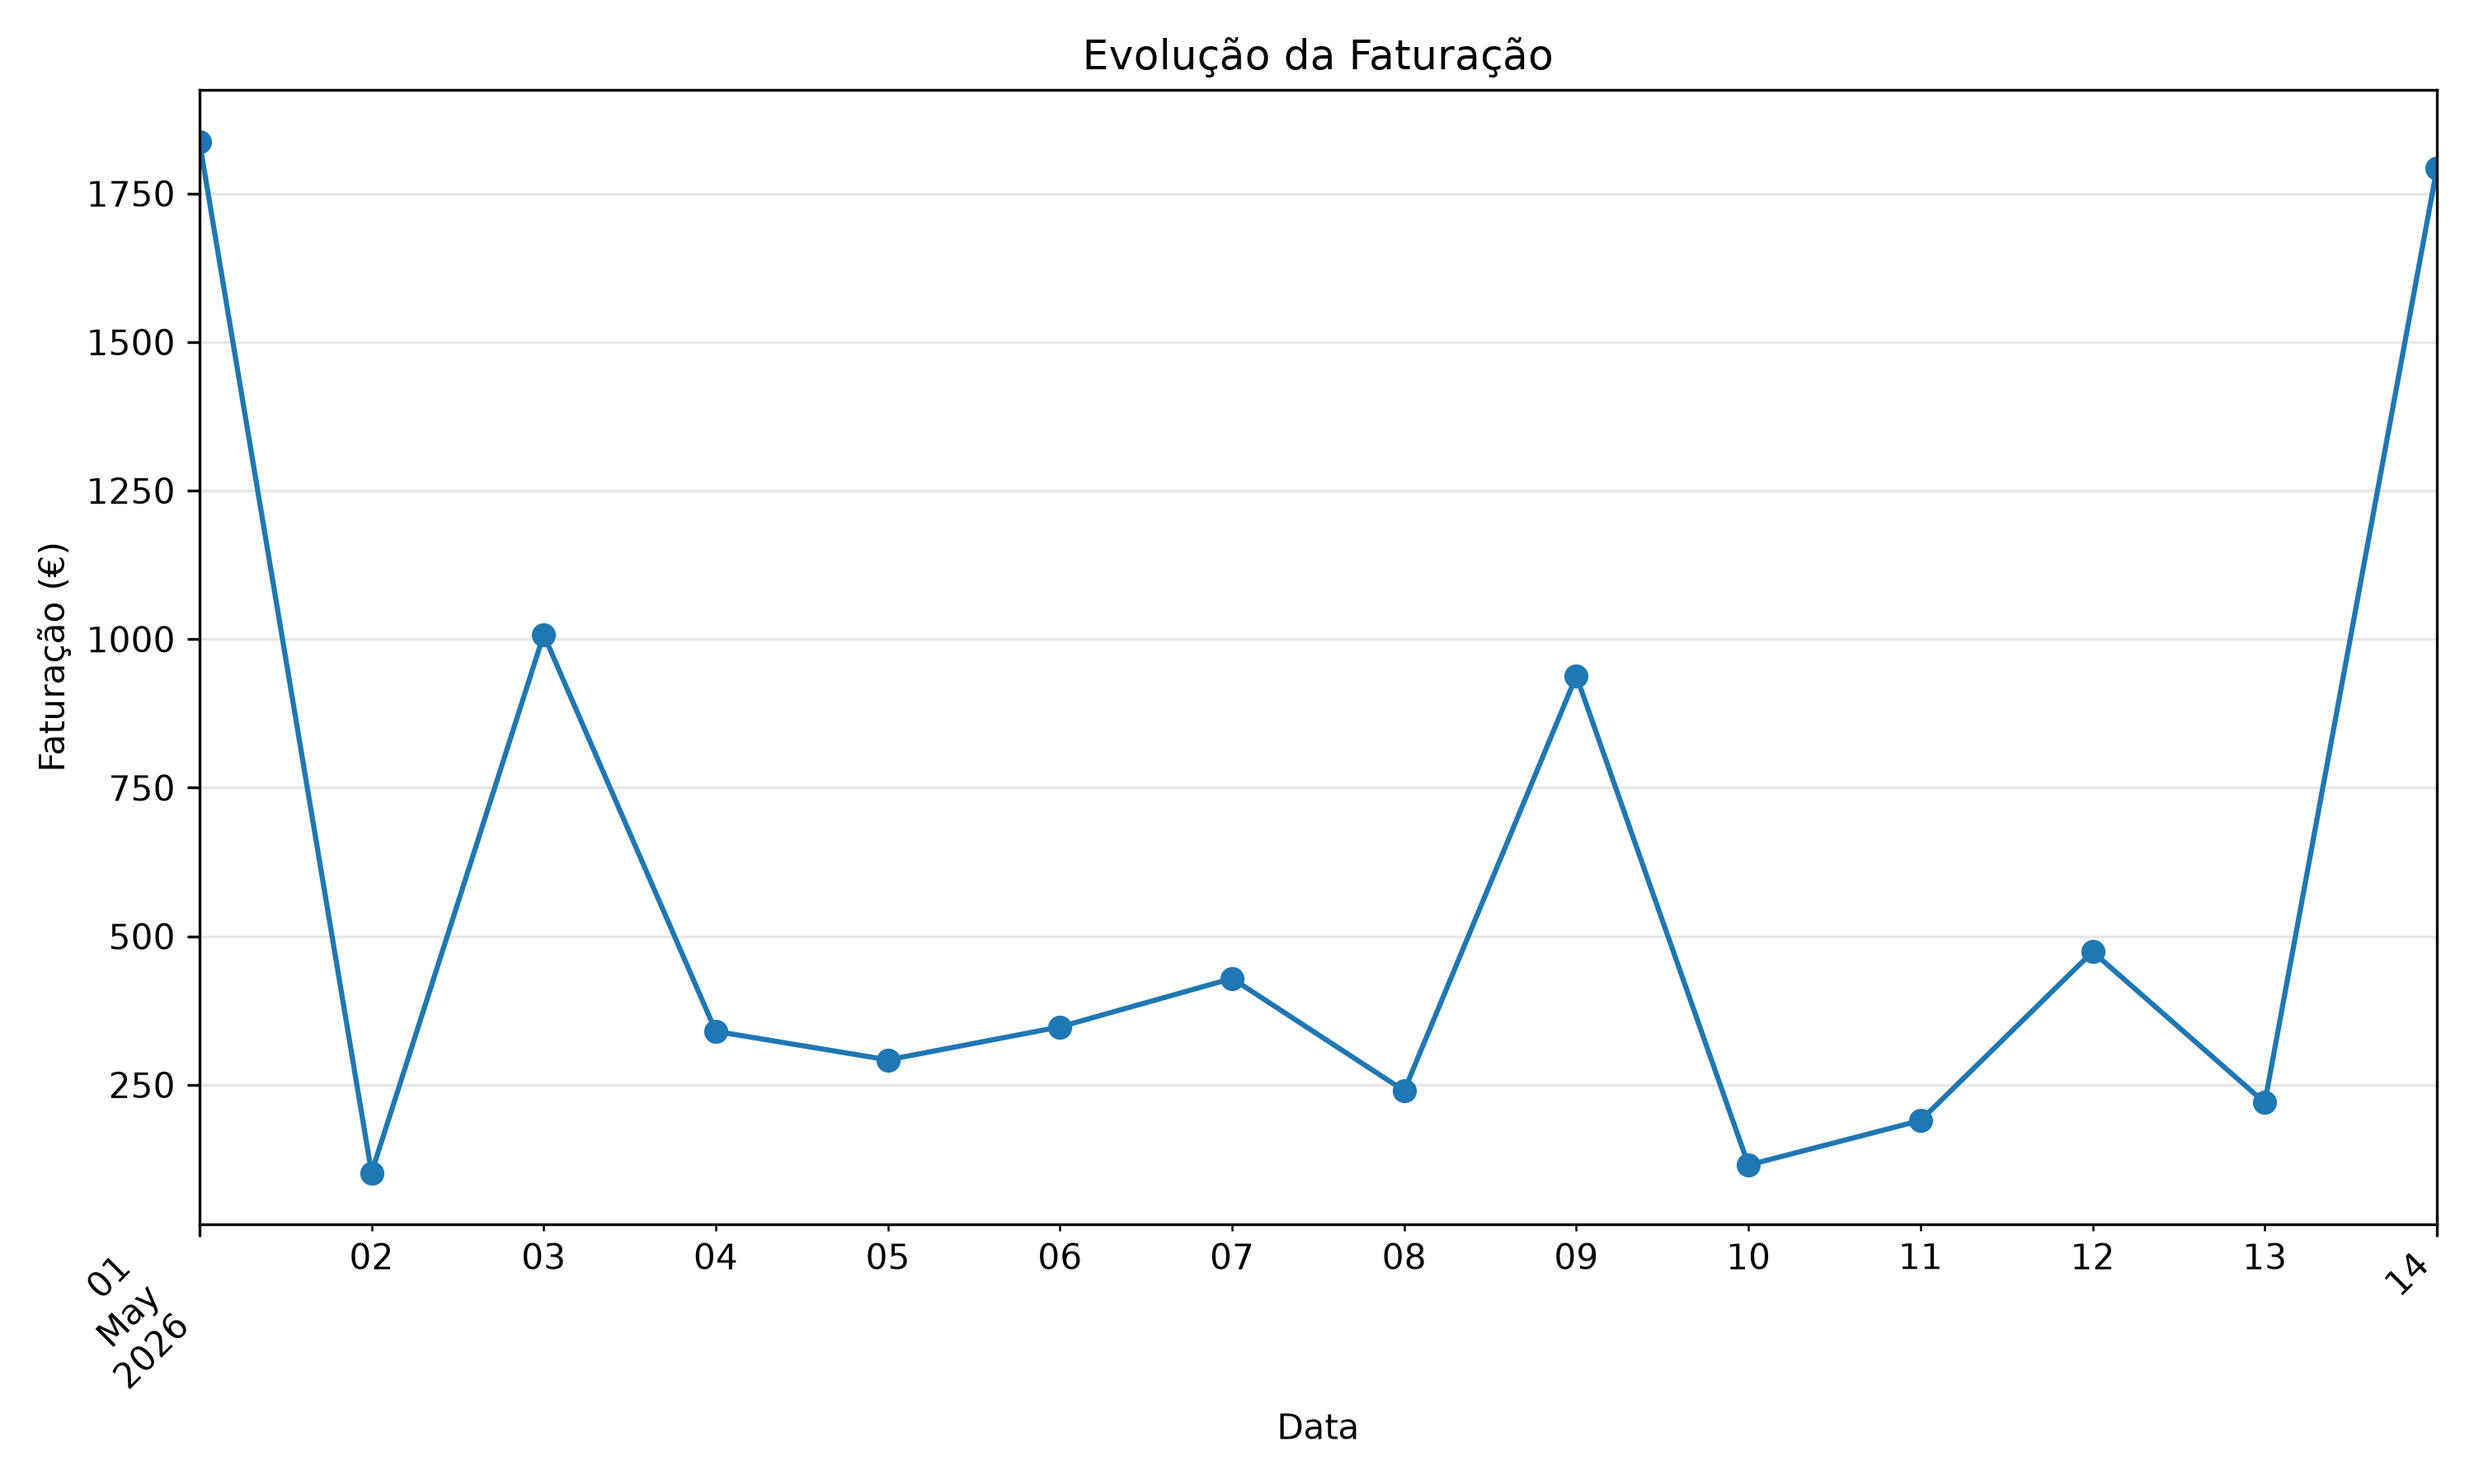
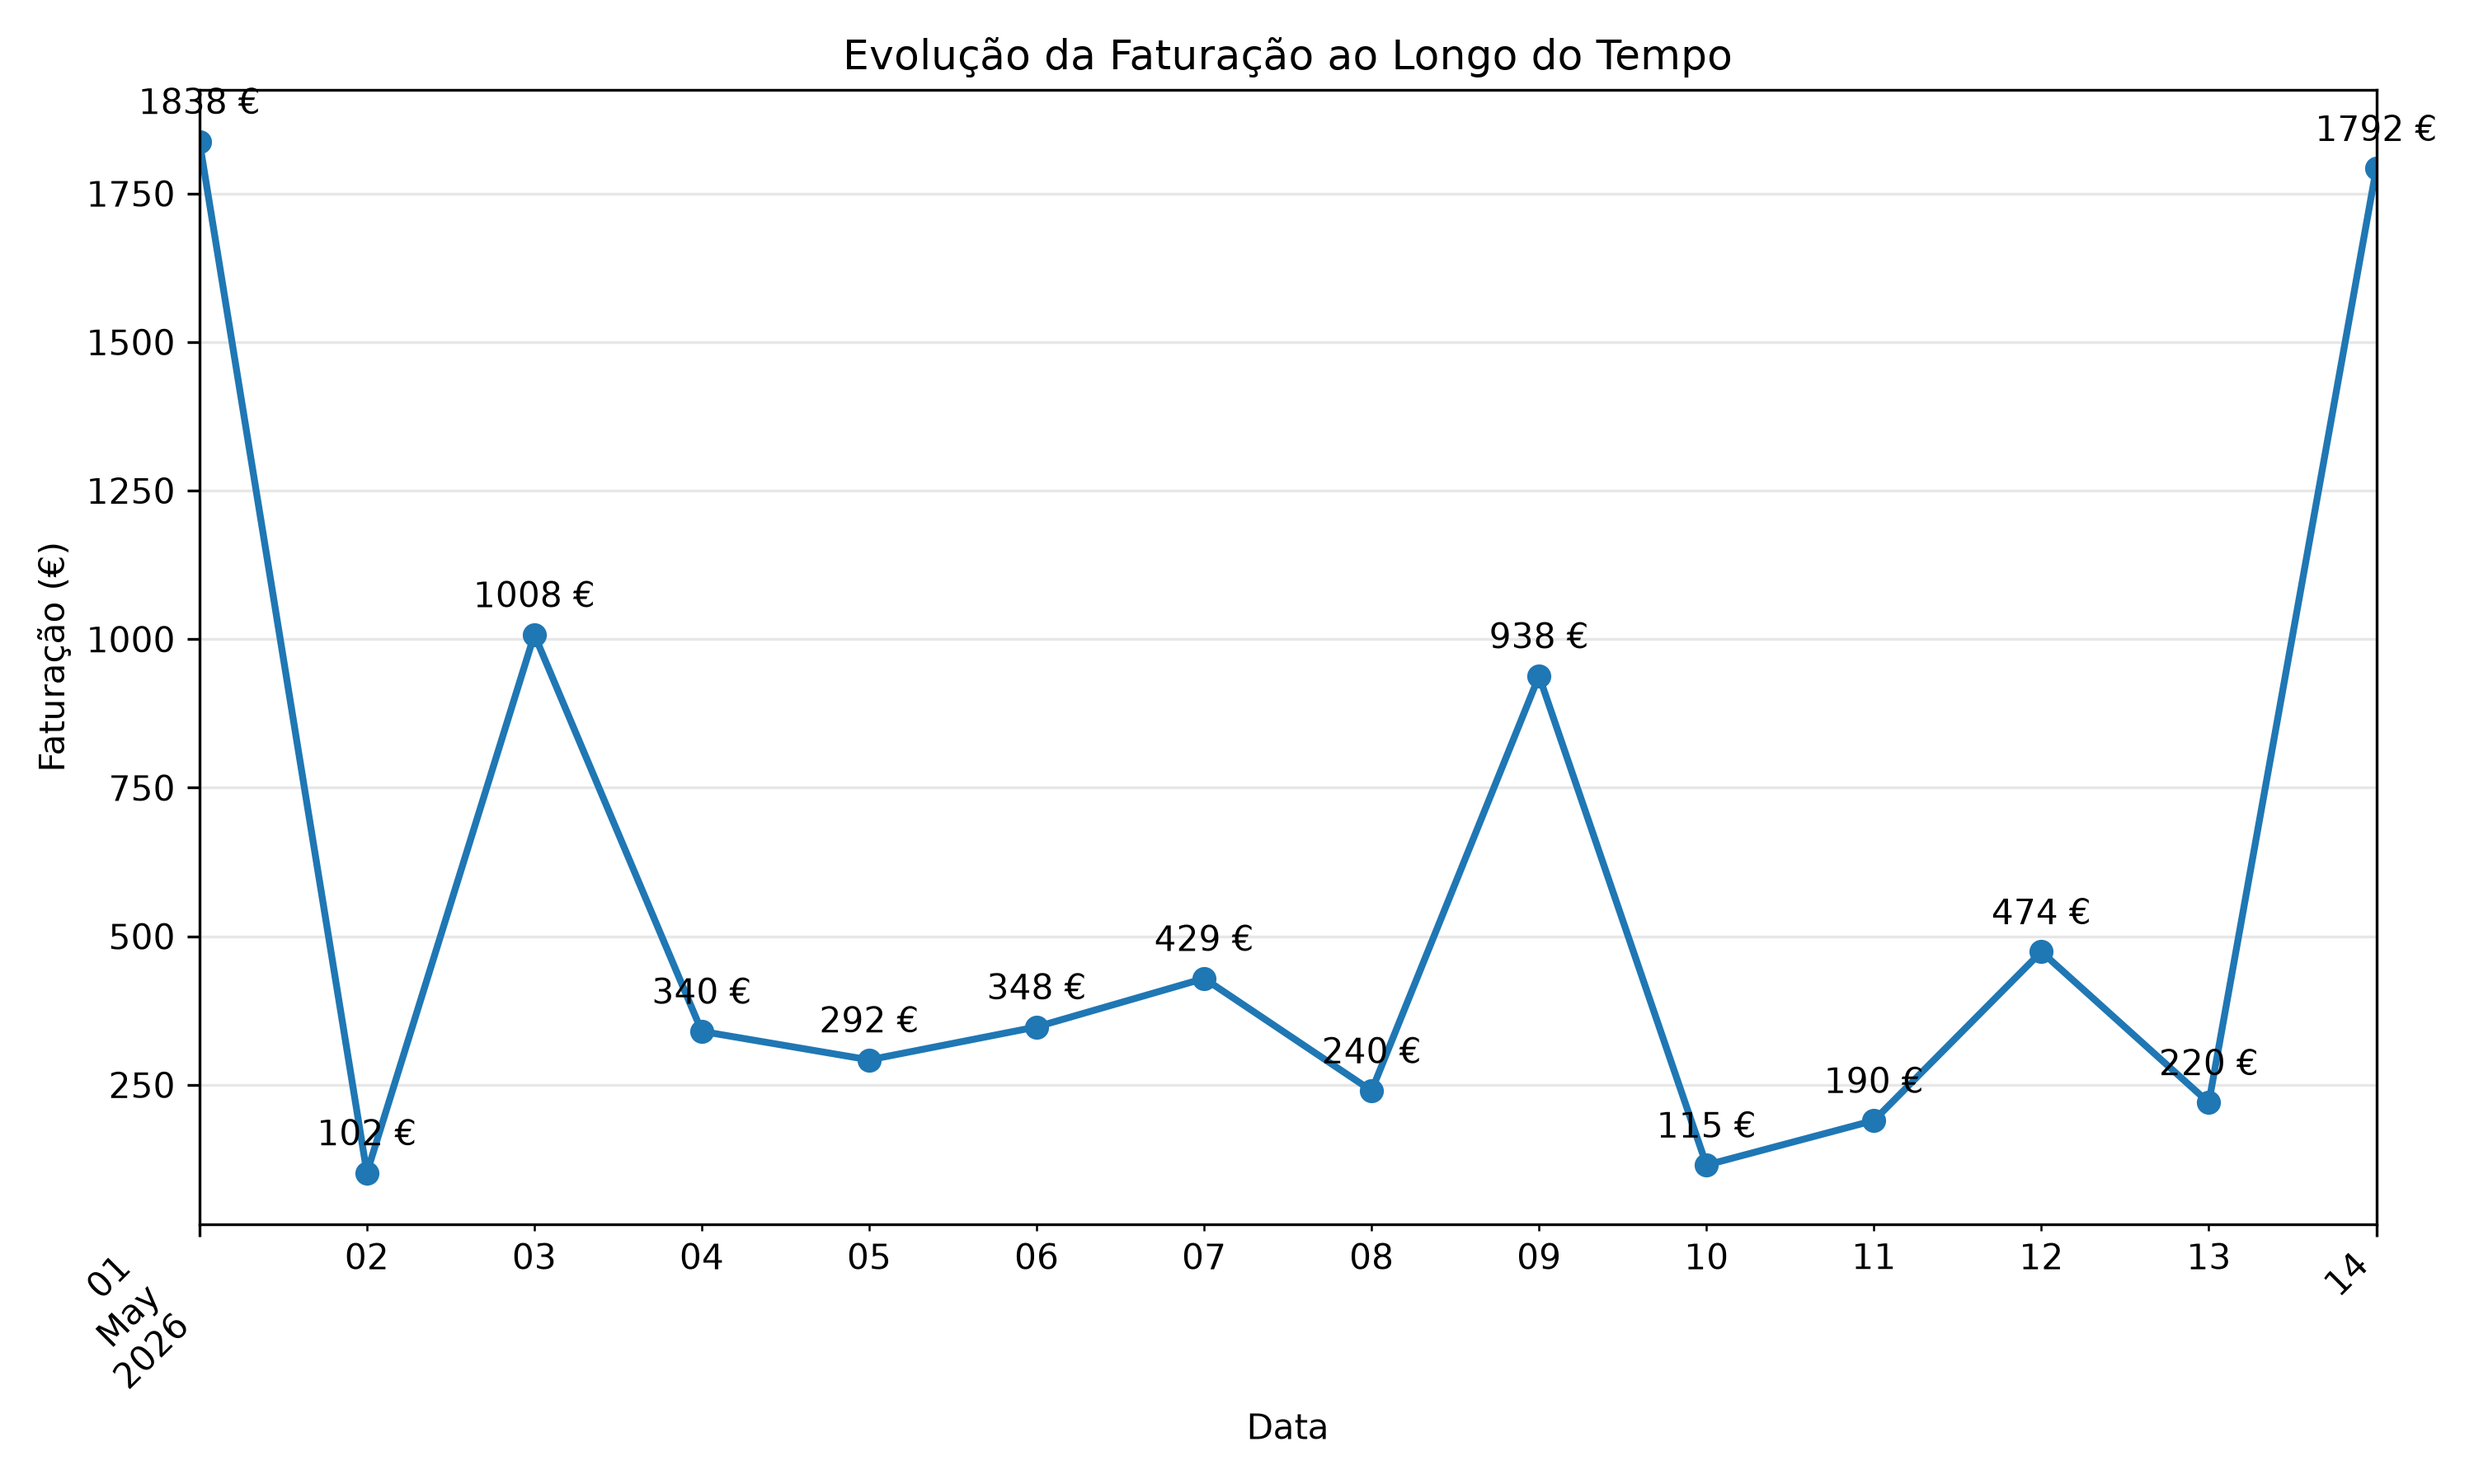
feat: improve sales visualizations

diff --git a/src/analisador_vendas.py b/src/analisador_vendas.py
@@ -105,13 +105,20 @@ class AnalisadorVendas:
 
         plt.figure(figsize=(10, 6))
 
-        top_5.plot(kind="bar")
+        ax = top_5.sort_values().plot(kind="barh")
 
         plt.title("Top 5 Produtos Mais Vendidos")
-        plt.xlabel("Produto")
-        plt.ylabel("Unidades Vendidas")
+        plt.xlabel("Unidades Vendidas")
+        plt.ylabel("Produto")
 
-        plt.xticks(rotation=45, ha="right")
+        for i, valor in enumerate(top_5.sort_values()):
+            ax.text(
+                valor + 1,
+                i,
+                str(valor),
+                va="center"
+            )
+
         plt.tight_layout()
 
         plt.savefig(
@@ -134,15 +141,23 @@ class AnalisadorVendas:
         )
 
     def grafico_top_5_faturacao(self):
-        top_5 = self.top_5_produtos_por_faturacao()
+        top_5 = self.top_5_produtos_por_faturacao().sort_values()
 
         plt.figure(figsize=(10, 6))
 
-        top_5.sort_values().plot(kind="barh")
+        ax = top_5.plot(kind="barh")
 
         plt.title("Top 5 Produtos por Faturação")
         plt.xlabel("Faturação (€)")
         plt.ylabel("Produto")
+
+        for i, valor in enumerate(top_5):
+            ax.text(
+                valor + 50,
+                i,
+                f"{valor:.2f} €",
+                va="center"
+            )
 
         plt.tight_layout()
 
@@ -153,7 +168,6 @@ class AnalisadorVendas:
 
         plt.show()
         plt.close()
-        
         
     def faturacao_por_data(self):
         self._calcular_faturacao()
@@ -170,17 +184,28 @@ class AnalisadorVendas:
 
         plt.figure(figsize=(10, 6))
 
-        faturacao.plot(
+        ax = faturacao.plot(
             kind="line",
-            marker="o"
+            marker="o",
+            linewidth=2
         )
 
-        plt.title("Evolução da Faturação")
+        plt.title("Evolução da Faturação ao Longo do Tempo")
         plt.xlabel("Data")
         plt.ylabel("Faturação (€)")
 
         plt.xticks(rotation=45, ha="right")
         plt.grid(True, alpha=0.3)
+
+        for data, valor in faturacao.items():
+            ax.annotate(
+                f"{valor:.0f} €",
+                (data, valor),
+                textcoords="offset points",
+                xytext=(0, 8),
+                ha="center"
+            )
+
         plt.tight_layout()
 
         plt.savefig(
@@ -191,6 +216,35 @@ class AnalisadorVendas:
         plt.show()
         plt.close()
         
+    
+    def grafico_faturacao_por_categoria(self):
+        faturacao = self.faturacao_por_categoria()
+
+        plt.figure(figsize=(10, 6))
+
+        ax = faturacao.sort_values().plot(kind="barh")
+
+        plt.title("Faturação por Categoria")
+        plt.xlabel("Faturação (€)")
+        plt.ylabel("Categoria")
+
+        for i, valor in enumerate(faturacao.sort_values()):
+            ax.text(
+                valor + 50,
+                i,
+                f"{valor:.2f} €",
+                va="center"
+            )
+
+        plt.tight_layout()
+
+        plt.savefig(
+            "outputs/graficos/faturacao_por_categoria.png",
+            dpi=300
+        )
+
+        plt.show()
+        plt.close()
 
     def categoria_maior_faturacao(self):
         faturacao = self.faturacao_por_categoria()

diff --git a/src/teste_analisador.py b/src/teste_analisador.py
@@ -55,6 +55,9 @@ analisador.grafico_top_5_faturacao()
 print("\nA apresentar evolução da faturação...")
 analisador.grafico_faturacao_por_data()
 
+print("\nA apresentar faturação por categoria...")
+analisador.grafico_faturacao_por_categoria()
+
 print("\nInsights de negócio:")
 
 for insight in analisador.gerar_insights():
